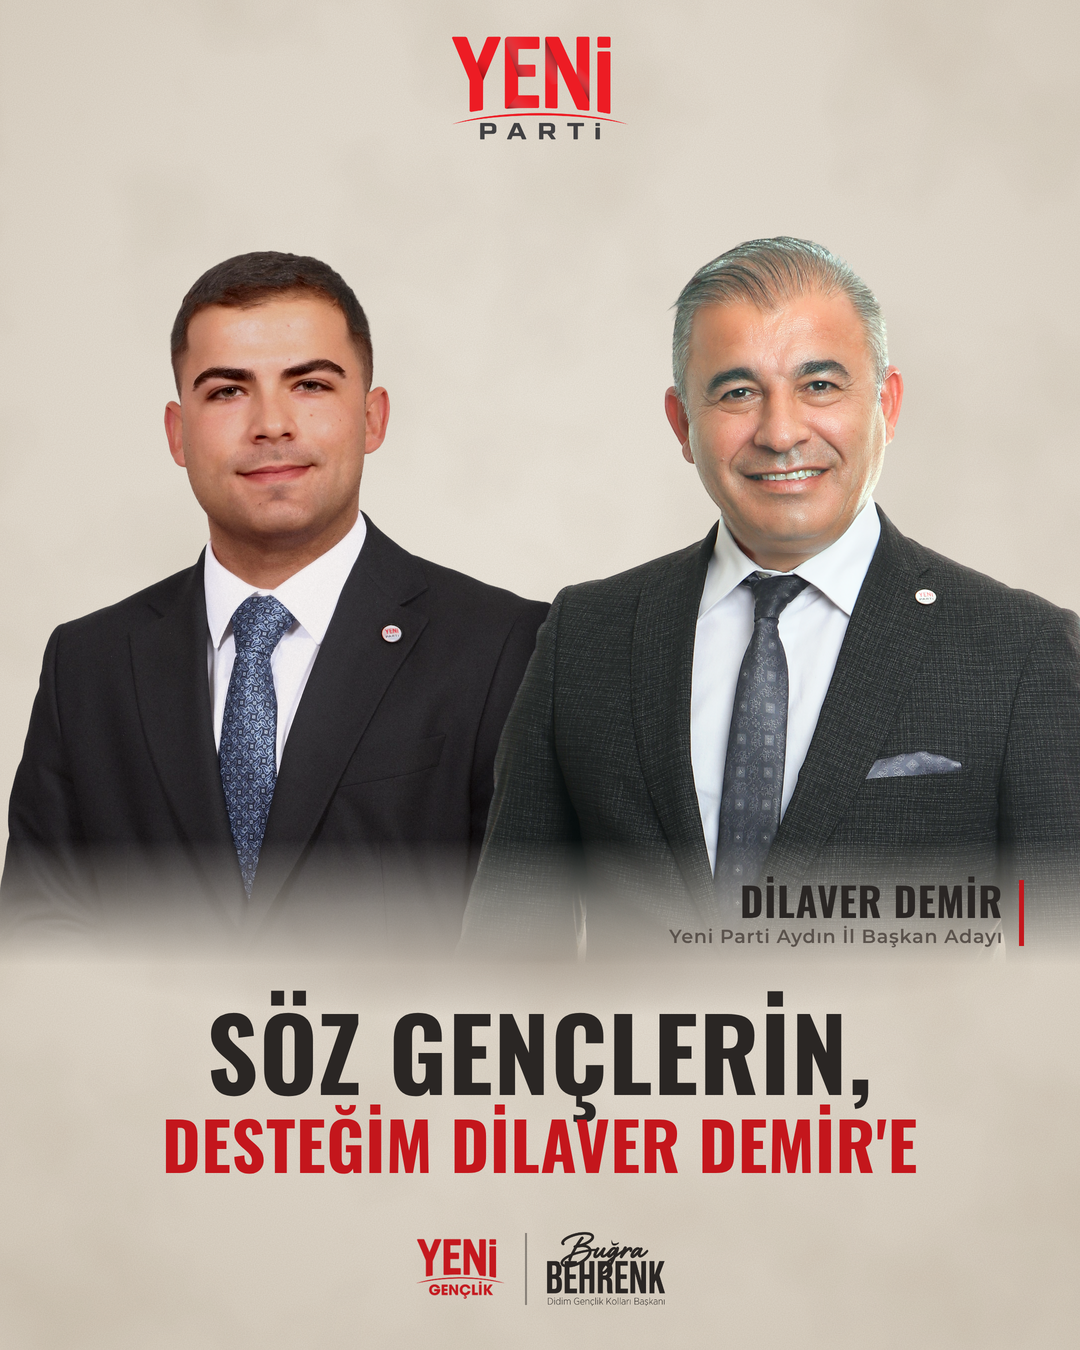
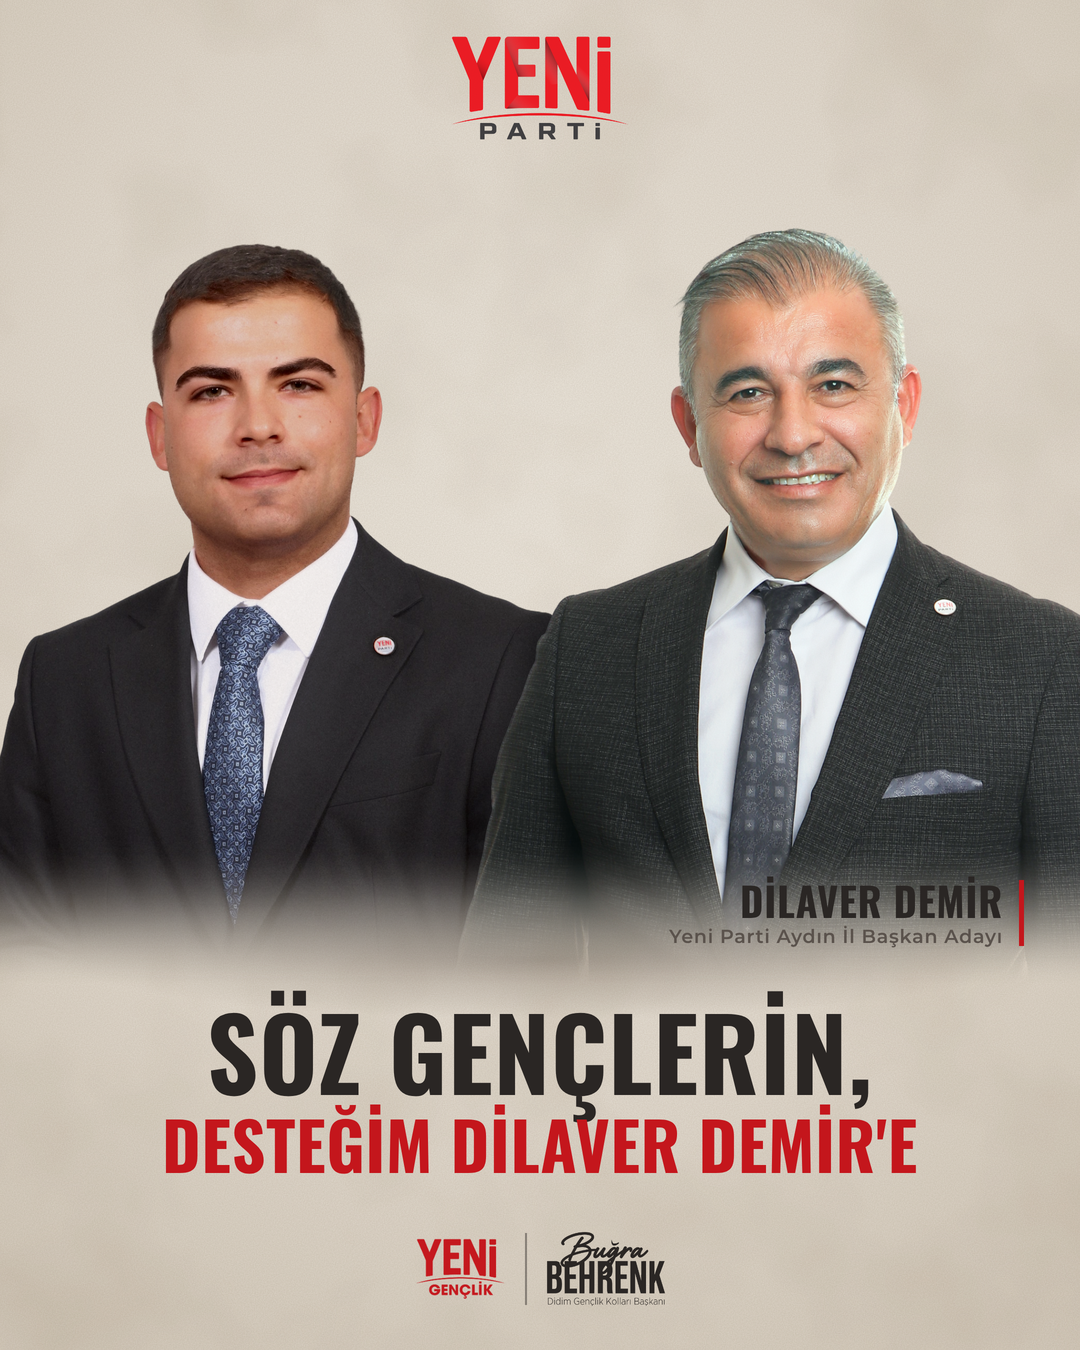
Destek afişi: sol kenar boşluğu kapandı, alt geçiş yumuşatıldı
Claude-Session: https://claude.ai/code/session_01SatttGbgBLoCnk9KGLypWv

diff --git a/tasarim/kisisel/destek/destek.html b/tasarim/kisisel/destek/destek.html
@@ -8,7 +8,7 @@ body{position:relative;background:radial-gradient(ellipse 80% 70% at 50% 40%,#EE
 .doku{position:absolute;inset:0;opacity:.5;mix-blend-mode:multiply}
 .lekeler{position:absolute;inset:0;opacity:.35;mix-blend-mode:multiply}
 .logo{position:absolute;left:50%;top:34px;width:180px;transform:translateX(-50%)}
-.kisiler{position:absolute;left:0;top:0;width:1080px;height:1350px}
+.kisiler{position:absolute;left:0;top:0;width:1080px;height:1350px;transform:scale(1.05);transform-origin:540px 390px}
 .zemin-golge{position:absolute;left:60px;right:60px;top:900px;height:120px;border-radius:50%;
   background:radial-gradient(ellipse at center,rgba(60,45,35,.28),transparent 70%)}
 .etiket{position:absolute;right:56px;top:880px;padding-right:16px;border-right:5px solid var(--kirmizi);color:var(--murekkep);text-align:right}
@@ -21,6 +21,7 @@ body{position:relative;background:radial-gradient(ellipse 80% 70% at 50% 40%,#EE
 .imza .gl{height:62px}
 .imza .ayrac{width:2px;height:72px;background:rgba(42,38,36,.45)}
 .imza .isim{height:74px}
+.doku.ust{opacity:.18}
 </style>
 <body>
 <svg class="doku" width="1080" height="1350"><filter id="n"><feTurbulence type="fractalNoise" baseFrequency=".9" numOctaves="3" seed="4"/><feColorMatrix type="matrix" values="0 0 0 0 .55  0 0 0 0 .48  0 0 0 0 .40  0 0 0 .55 0"/></filter><rect width="1080" height="1350" filter="url(#n)"/></svg>
@@ -28,6 +29,7 @@ body{position:relative;background:radial-gradient(ellipse 80% 70% at 50% 40%,#EE
 <img class="logo" src="yp-logo-renkli.png">
 <div class="zemin-golge"></div>
 <img class="kisiler" src="kisiler.png">
+<svg class="doku ust" width="1080" height="1350"><rect width="1080" height="1350" filter="url(#n)"/></svg>
 <div class="etiket"><b>DİLAVER DEMİR</b><span>Yeni Parti Aydın İl Başkan Adayı</span></div>
 <div class="slogan"><div class="s-1">SÖZ GENÇLERİN,</div><div class="s-2">DESTEĞİM DİLAVER DEMİR'E</div></div>
 <div class="imza"><img class="gl" src="yeni-genclik-kirmizi.png"><span class="ayrac"></span><img class="isim" src="imza-isim-koyu.png"></div>

diff --git a/tasarim/kisisel/destek/kisiler.py b/tasarim/kisisel/destek/kisiler.py
@@ -18,7 +18,7 @@ P = dict(
     d_sol=421,                        # Dilaver gövdesinin sol kenarı x (Buğra'nın sağ kol kesiğini örter)
     golge=0.38,
     b_sol=0,                          # Buğra'nın sol kenarı x
-    eri_bas=840, eri_bit=965,
+    eri_bas=820, eri_bit=960,
 )
 if len(sys.argv) > 1 and sys.argv[1].endswith('.json'):
     P.update(json.load(open(sys.argv[1])))
@@ -135,6 +135,7 @@ if P.get('sarma', 0):
 t = np.asarray(tuval).astype(np.float32)
 yy = np.arange(H)[:, None]
 eri = np.clip((P['eri_bit'] * K - yy) / ((P['eri_bit'] - P['eri_bas']) * K), 0, 1)
+eri = eri * eri * (3 - 2 * eri)
 t[..., 3] *= eri
 tuval = Image.fromarray(t.clip(0, 255).astype(np.uint8), 'RGBA')
 tuval.save(cikti)
